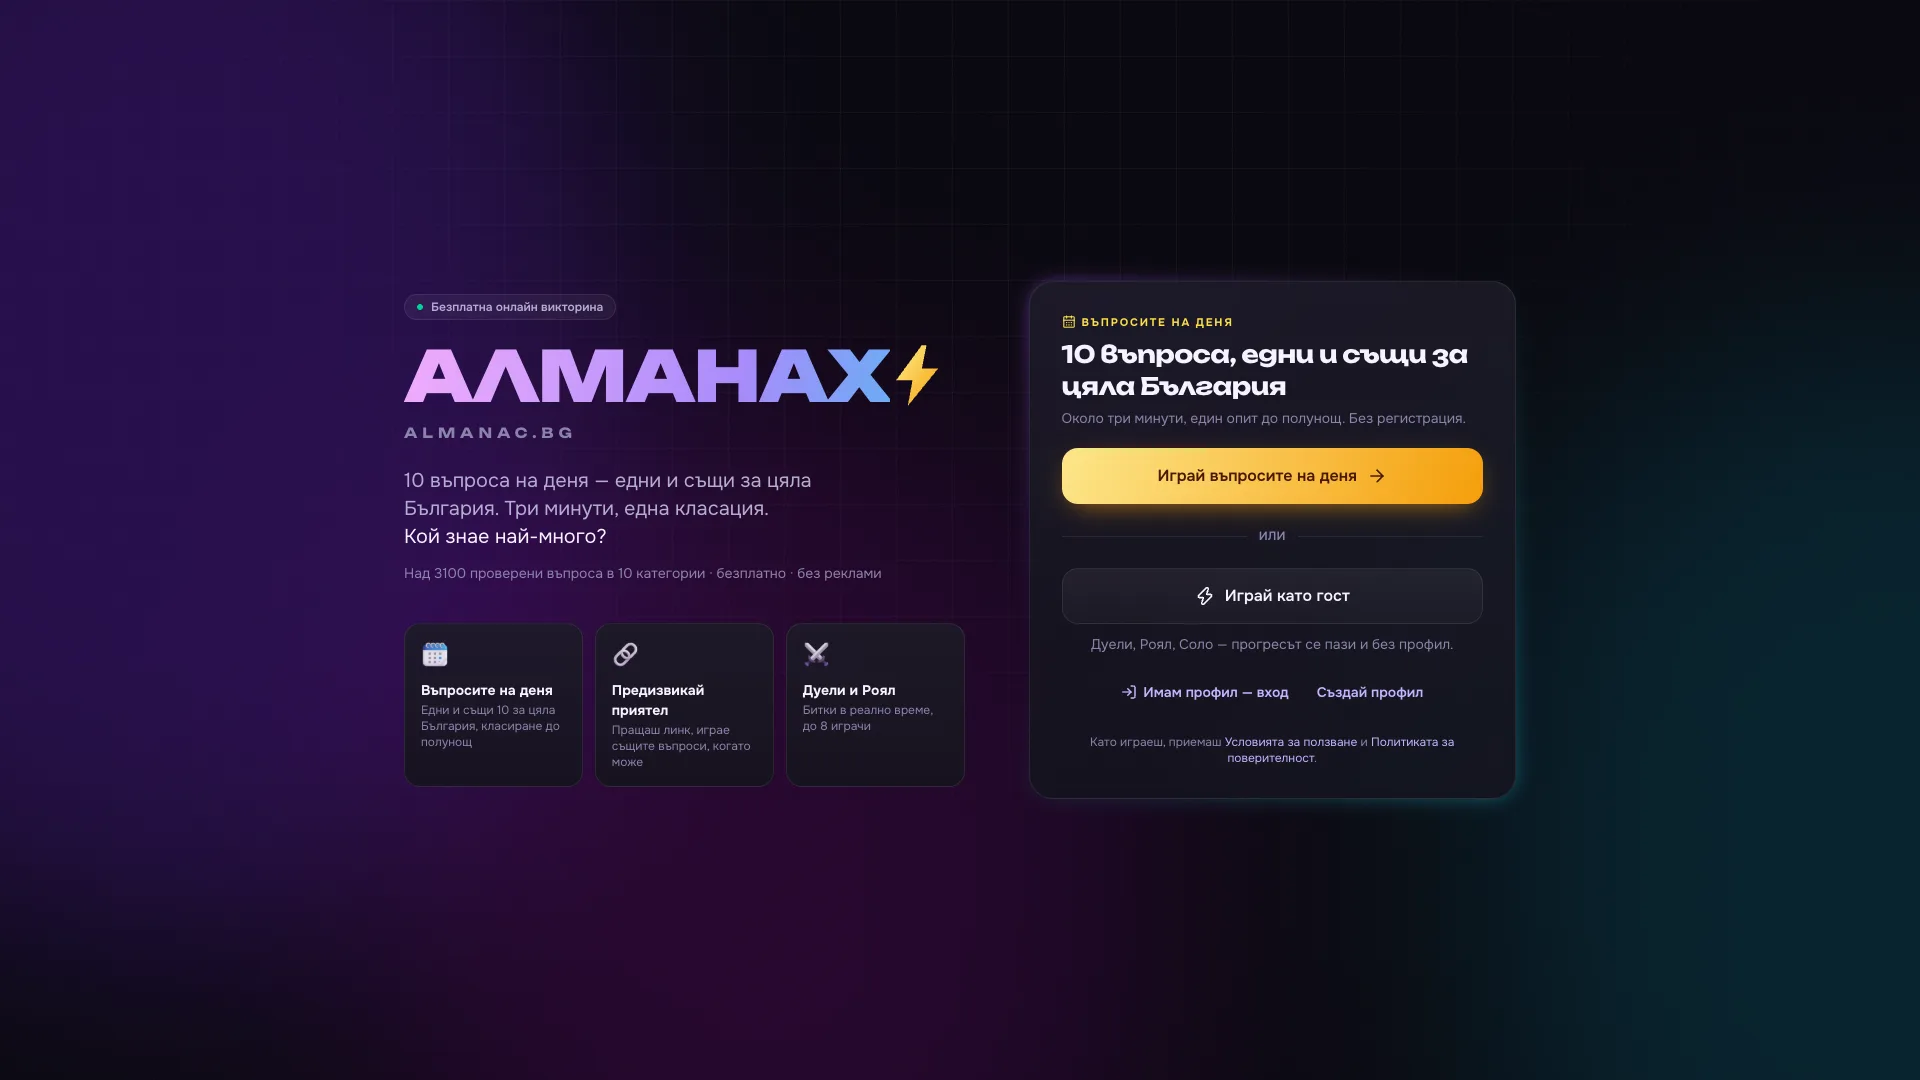
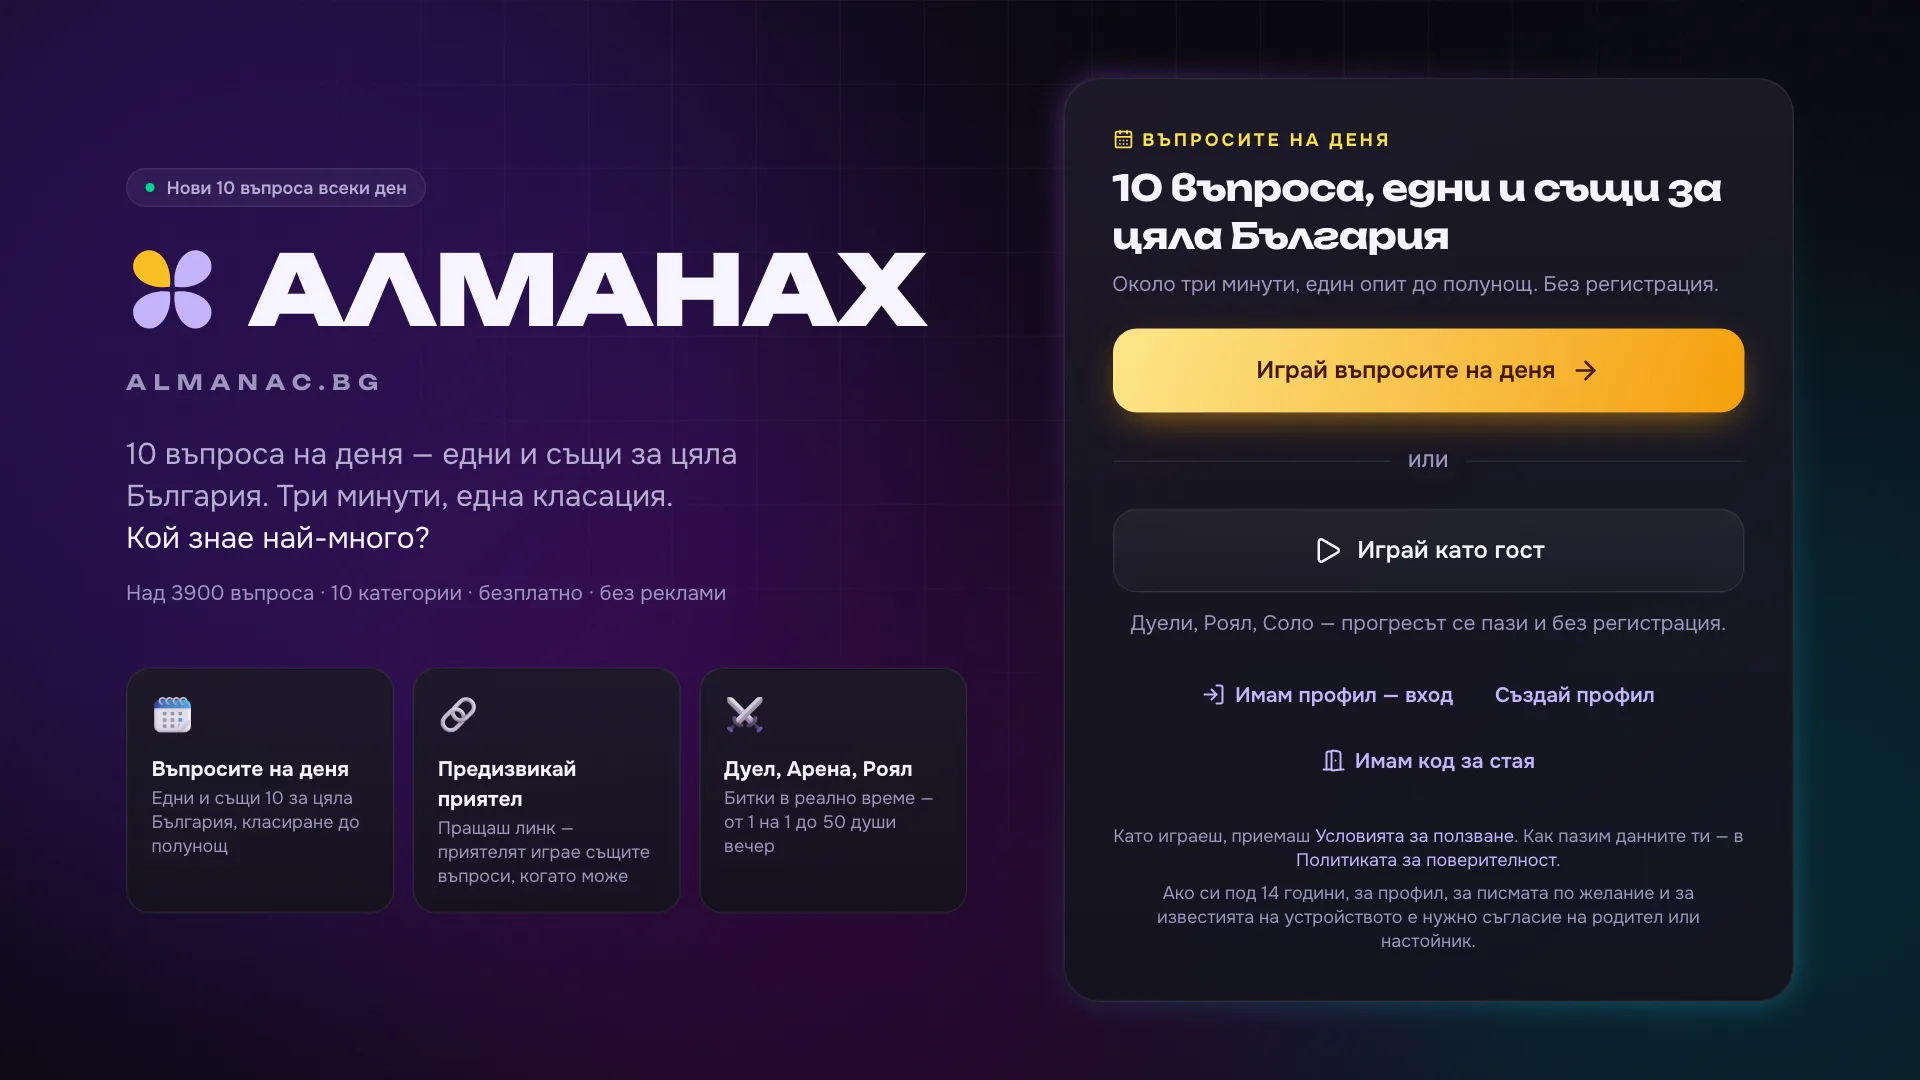
8j.1 (WEB-3, VD-2, VD-3, COPY-5, GH-5): the rosette everywhere, the bolt nowhere
One brand lockup (npm run lockup): the rosette and the name as Unbounded Black outlines,
drawn with harfbuzz from the site's own font, in public/brand-lockup.svg and inlined in the
app's first frame, offline.html and Caddy's restart page (which also gets a light scheme and
no system-ui). „Играй като гост“ gets Play instead of lucide's Zap; the server's start line
and the manifest comment lose the bolt. npm run store-shots retakes the install sheet's four
screenshots from the built app (a guest on the sample bank; the landing on the real one where
checked out), captions from the manifest's labels. The repository description and the org
profile come from .github/about/ through github-setup.sh. test/brand.test.ts: no bolt, and
every inlined lockup equals the drawn one.

Claude-Session: https://claude.ai/code/session_01PjW8peoPbmFMGbX3BtYztw

diff --git a/apps/web/index.html b/apps/web/index.html
@@ -34,19 +34,20 @@
          Bulgarian with its own letter forms). */
       html { background: #07060d; }
       html[data-theme='light'] { background: #f4f3f9; }
+      /* The brand lockup (public/brand-lockup.svg, drawn by scripts/lockup.mjs): the rosette and the name as outlines,
+         the same before any font has loaded. Its colours are the game's (--logo-* in styles.css). */
       .boot {
         min-height: 100dvh;
         display: grid;
         place-content: center;
-        grid-auto-flow: column;
-        gap: 0.15em;
-        font: 900 clamp(2rem, 9vw, 3.5rem) / 1 'Segoe UI', Roboto, Arial, sans-serif;
-        letter-spacing: -0.02em;
-        color: #e9d5ff;
-        text-shadow: 0 0 32px rgb(168 85 247 / 0.55);
+        color: #f5f3ff;
         animation: boot-pulse 1.6s ease-in-out infinite alternate;
       }
-      [data-theme='light'] .boot { color: #6d28d9; text-shadow: none; }
+      .boot .lockup { height: calc(0.95 * clamp(2rem, 9vw, 3.5rem)); width: auto; filter: drop-shadow(0 0 28px rgb(168 85 247 / 0.45)); }
+      [data-theme='light'] .boot { color: #16131f; }
+      [data-theme='light'] .boot .lockup { filter: none; }
+      [data-theme='light'] .boot .petal { fill: #6d28d9; }
+      [data-theme='light'] .boot .gold { fill: #f59e0b; }
       @keyframes boot-pulse { from { opacity: 0.55; } to { opacity: 1; } }
       @media (prefers-reduced-motion: reduce) { .boot { animation: none; } }
       .noscript {
@@ -61,7 +62,7 @@
   <body>
     <!-- Painted instantly while the app's code downloads; React replaces it. Between the markers the server may put
          the page itself, already drawn (see src/lib/painted.ts). -->
-    <div id="root"><!--app--><div class="boot" role="status" aria-label="Зареждане…"><span>%BRAND_NAME%</span><svg aria-hidden="true" viewBox="13 5 38 54" style="height:0.9em;width:auto;align-self:center"><path d="M36 6 14 36h14l-4 22 26-32H36l4-20z" fill="#fbbf24"/></svg></div><!--/app--></div>
+    <div id="root"><!--app--><div class="boot" role="status" aria-label="Зареждане…"><!--lockup--><svg xmlns="http://www.w3.org/2000/svg" class="lockup" role="img" aria-label="АЛМАНАХ" viewBox="0 0 8260 950"><g transform="scale(20.2128) translate(-8.5 -8.5)"><path class="gold" fill="#fbbf24" d="M32 30.2C24.5 24.7 21.5 14.7 26 9.9c3.2-3.4 8.8-3.4 12 0 4.5 4.8 1.5 14.8-6 20.3z" transform="rotate(-45 32 32)"/><path class="petal" fill="#c4b5fd" d="M32 30.2C24.5 24.7 21.5 14.7 26 9.9c3.2-3.4 8.8-3.4 12 0 4.5 4.8 1.5 14.8-6 20.3z" transform="rotate(45 32 32)"/><path class="petal" fill="#c4b5fd" d="M32 30.2C24.5 24.7 21.5 14.7 26 9.9c3.2-3.4 8.8-3.4 12 0 4.5 4.8 1.5 14.8-6 20.3z" transform="rotate(135 32 32)"/><path class="petal" fill="#c4b5fd" d="M32 30.2C24.5 24.7 21.5 14.7 26 9.9c3.2-3.4 8.8-3.4 12 0 4.5 4.8 1.5 14.8-6 20.3z" transform="rotate(225 32 32)"/></g><path fill="currentColor" d="M1488,724L1488,519L1999,519L1999,724L1488,724ZM1920,100L2249,850L1974,850L1715,214L1781,214L1522,850L1247,850L1576,100L1920,100ZM2406,100L3180,100L3180,850L2922,850L2922,212L3038,328L2550,328L2658,244Q2665,299 2668,351Q2670,403 2670,450Q2670,597 2643,689Q2615,781 2556,824Q2497,867 2402,867Q2358,867 2315,858Q2272,848 2237,830L2237,618Q2282,635 2319,635Q2378,635 2403,584Q2428,532 2428,413Q2428,351 2423,274Q2417,197 2406,100ZM4430,100L4430,850L4185,850L4185,197L4232,203L3980,850L3725,850L3473,206L3520,199L3520,850L3275,850L3275,100L3674,100L3898,711L3809,711L4031,100L4430,100ZM4703,724L4703,519L5214,519L5214,724L4703,724ZM5135,100L5464,850L5189,850L4930,214L4996,214L4737,850L4462,850L4791,100L5135,100ZM5496,100L5754,100L5754,850L5496,850L5496,100ZM6074,100L6332,100L6332,850L6074,850L6074,100ZM5642,353L6175,353L6175,581L5642,581L5642,353ZM6605,724L6605,519L7116,519L7116,724L6605,724ZM7037,100L7366,850L7091,850L6832,214L6898,214L6639,850L6364,850L6693,100L7037,100ZM7894,540L7894,381L8274,850L7957,850L7733,553L7863,553L7637,850L7324,850L7707,381L7707,540L7343,100L7666,100L7868,367L7738,367L7936,100L8255,100L7894,540Z"/></svg><!--/lockup--></div><!--/app--></div>
     <!-- Without scripts (switched off, or blocked) the game can't run: said, rather than a splash that never ends. The
          pages drawn on the server (the guides, the legal ones) read without it. -->
     <noscript><p class="noscript">%BRAND_NAME% е игра в реално време и има нужда от JavaScript. Включи го в браузъра и

diff --git a/apps/web/public/offline.html b/apps/web/public/offline.html
@@ -17,8 +17,9 @@
       }
       /* As the device is set (the page can't read the game's own choice offline). No system-ui: Apple's sets Bulgarian
          with its own letter forms. */
-      .logo { display: inline-flex; align-items: center; gap: 9px; font-weight: 900; font-size: 28px; letter-spacing: -0.02em; }
-      /* The rosette (favicon.svg), its colours as in the game (--logo-* in styles.css). */
+      /* The brand lockup (brand-lockup.svg, drawn by scripts/lockup.mjs): the rosette and the name as outlines, so no
+         font has to load; its colours as in the game (--logo-* in styles.css). */
+      .logo .lockup { display: block; margin: 0 auto; height: 27px; width: auto; }
       .logo .petal { fill: #c4b5fd; }
       .logo .gold { fill: #fbbf24; }
       h1 { margin: 24px 0 8px; font-size: 22px; }
@@ -41,7 +42,7 @@
   </head>
   <body>
     <main>
-      <div class="logo"><svg aria-hidden="true" viewBox="8.5 8.5 47 47" width="27" height="27"><path class="gold" d="M32 30.2C24.5 24.7 21.5 14.7 26 9.9c3.2-3.4 8.8-3.4 12 0 4.5 4.8 1.5 14.8-6 20.3z" transform="rotate(-45 32 32)"/><path class="petal" d="M32 30.2C24.5 24.7 21.5 14.7 26 9.9c3.2-3.4 8.8-3.4 12 0 4.5 4.8 1.5 14.8-6 20.3z" transform="rotate(45 32 32)"/><path class="petal" d="M32 30.2C24.5 24.7 21.5 14.7 26 9.9c3.2-3.4 8.8-3.4 12 0 4.5 4.8 1.5 14.8-6 20.3z" transform="rotate(135 32 32)"/><path class="petal" d="M32 30.2C24.5 24.7 21.5 14.7 26 9.9c3.2-3.4 8.8-3.4 12 0 4.5 4.8 1.5 14.8-6 20.3z" transform="rotate(225 32 32)"/></svg>АЛМАНАХ</div>
+      <div class="logo"><!--lockup--><svg xmlns="http://www.w3.org/2000/svg" class="lockup" role="img" aria-label="АЛМАНАХ" viewBox="0 0 8260 950"><g transform="scale(20.2128) translate(-8.5 -8.5)"><path class="gold" fill="#fbbf24" d="M32 30.2C24.5 24.7 21.5 14.7 26 9.9c3.2-3.4 8.8-3.4 12 0 4.5 4.8 1.5 14.8-6 20.3z" transform="rotate(-45 32 32)"/><path class="petal" fill="#c4b5fd" d="M32 30.2C24.5 24.7 21.5 14.7 26 9.9c3.2-3.4 8.8-3.4 12 0 4.5 4.8 1.5 14.8-6 20.3z" transform="rotate(45 32 32)"/><path class="petal" fill="#c4b5fd" d="M32 30.2C24.5 24.7 21.5 14.7 26 9.9c3.2-3.4 8.8-3.4 12 0 4.5 4.8 1.5 14.8-6 20.3z" transform="rotate(135 32 32)"/><path class="petal" fill="#c4b5fd" d="M32 30.2C24.5 24.7 21.5 14.7 26 9.9c3.2-3.4 8.8-3.4 12 0 4.5 4.8 1.5 14.8-6 20.3z" transform="rotate(225 32 32)"/></g><path fill="currentColor" d="M1488,724L1488,519L1999,519L1999,724L1488,724ZM1920,100L2249,850L1974,850L1715,214L1781,214L1522,850L1247,850L1576,100L1920,100ZM2406,100L3180,100L3180,850L2922,850L2922,212L3038,328L2550,328L2658,244Q2665,299 2668,351Q2670,403 2670,450Q2670,597 2643,689Q2615,781 2556,824Q2497,867 2402,867Q2358,867 2315,858Q2272,848 2237,830L2237,618Q2282,635 2319,635Q2378,635 2403,584Q2428,532 2428,413Q2428,351 2423,274Q2417,197 2406,100ZM4430,100L4430,850L4185,850L4185,197L4232,203L3980,850L3725,850L3473,206L3520,199L3520,850L3275,850L3275,100L3674,100L3898,711L3809,711L4031,100L4430,100ZM4703,724L4703,519L5214,519L5214,724L4703,724ZM5135,100L5464,850L5189,850L4930,214L4996,214L4737,850L4462,850L4791,100L5135,100ZM5496,100L5754,100L5754,850L5496,850L5496,100ZM6074,100L6332,100L6332,850L6074,850L6074,100ZM5642,353L6175,353L6175,581L5642,581L5642,353ZM6605,724L6605,519L7116,519L7116,724L6605,724ZM7037,100L7366,850L7091,850L6832,214L6898,214L6639,850L6364,850L6693,100L7037,100ZM7894,540L7894,381L8274,850L7957,850L7733,553L7863,553L7637,850L7324,850L7707,381L7707,540L7343,100L7666,100L7868,367L7738,367L7936,100L8255,100L7894,540Z"/></svg><!--/lockup--></div>
       <h1 data-down="Сървърът не отговаря">Няма връзка</h1>
       <p data-down="Връщаме се след малко: страницата ще опита отново сама.">Играта иска интернет. Щом връзката се върне, страницата ще се отвори сама.</p>
       <a href="">Опитай отново</a>

diff --git a/apps/web/src/components/landing/Entry.tsx b/apps/web/src/components/landing/Entry.tsx
@@ -1,6 +1,6 @@
 import { fmt } from '@quiz/client';
 import { type ChallengePreview, type DailyPreview, MODES, ROOM_CODE_DIGITS } from '@quiz/shared';
-import { ArrowRight, CalendarDays, DoorOpen, LogIn, RotateCcw, Swords, TriangleAlert, Zap } from 'lucide-react';
+import { ArrowRight, CalendarDays, DoorOpen, LogIn, Play, RotateCcw, Swords, TriangleAlert } from 'lucide-react';
 import { type ReactNode, useEffect, useRef, useState } from 'react';
 import { Link, useNavigate } from 'react-router';
 import type { LoadFailure } from '../../lib/load';
@@ -56,7 +56,7 @@ export function GuestPlay({
   return (
     <div>
       <Button size="lg" variant={primary ? 'primary' : 'secondary'} className="w-full" loading={busy} onClick={onPlay}>
-        <Zap aria-hidden className="size-5" /> {label}
+        <Play aria-hidden className="size-5" /> {label}
       </Button>
       <p className="mt-2.5 text-center text-sm text-fg-3">
         Без регистрация. Нивото и серията се пазят — запазваш профила с име и парола, когато решиш.
@@ -106,7 +106,7 @@ export function NewcomerStart({
       )}
       <Or>или</Or>
       <Button size="lg" variant="secondary" className="w-full" disabled={busy} onClick={onGuest}>
-        <Zap aria-hidden className="size-5" /> Играй като гост
+        <Play aria-hidden className="size-5" /> Играй като гост
       </Button>
       <p className="mt-2.5 text-center text-sm text-fg-3">Дуели, Роял, Соло — прогресът се пази и без регистрация.</p>
       <div className="mt-4 flex flex-wrap justify-center gap-x-1 text-sm">
@@ -312,7 +312,7 @@ export function ChallengeLanding({
           Няма такова предизвикателство — линкът може да е непълен или вече изтрит. Можеш да играеш и без него.
         </p>
         <Button size="lg" className="mt-6 w-full" loading={busy} onClick={onPlay}>
-          <Zap aria-hidden className="size-5" /> Играй като гост
+          <Play aria-hidden className="size-5" /> Играй като гост
         </Button>
         {failure}
         {signIn}
@@ -367,7 +367,7 @@ export function ChallengeLanding({
             Предизвикателството изтече и вече не може да се играе. Влез в играта — дуелите и въпросите на деня те чакат.
           </p>
           <Button size="lg" className="mt-5 w-full" loading={busy} onClick={onPlay}>
-            <Zap aria-hidden className="size-5" /> Играй като гост
+            <Play aria-hidden className="size-5" /> Играй като гост
           </Button>
         </>
       ) : (

diff --git a/apps/server/test/brand.test.ts b/apps/server/test/brand.test.ts
@@ -1,0 +1,39 @@
+// The mark (the 31 October review, WEB-3 = VD-2 = COPY-5): the rosette wherever a player or an installer looks, never
+// the retired bolt; the lockup drawn once (apps/web/scripts/lockup.mjs) and the same in every page that inlines it.
+import assert from 'node:assert/strict';
+import fs from 'node:fs';
+import path from 'node:path';
+import { test } from 'node:test';
+import { BRAND } from '@quiz/shared';
+
+const root = path.resolve(import.meta.dirname, '../../..');
+const read = (file: string) => fs.readFileSync(path.join(root, file), 'utf8');
+const INLINED = ['apps/web/index.html', 'apps/web/public/offline.html', 'deploy/Caddyfile'];
+
+test('no page a player or an installer sees carries the retired bolt', () => {
+  for (const file of [
+    ...INLINED,
+    'apps/web/public/cf-error.html',
+    'apps/web/vite.config.ts',
+    'apps/web/src/components/landing/Entry.tsx',
+    'apps/server/src/index.ts',
+    '.github/about/org-profile.md',
+    '.github/about/description.txt',
+  ]) {
+    const text = read(file);
+    assert.ok(!text.includes('M36 6 14 36'), `${file}: the bolt's path`);
+    assert.ok(!text.includes('⚡'), `${file}: ⚡`);
+    assert.ok(!/\bZap\b/.test(text), `${file}: lucide's Zap`);
+  }
+});
+
+test('the brand lockup is drawn once, with the name, and inlined the same everywhere', () => {
+  const lockup = read('apps/web/public/brand-lockup.svg').trim();
+  assert.ok(lockup.includes(`aria-label="${BRAND.name}"`), 'the name it draws is the brand’s');
+  for (const file of INLINED)
+    assert.equal(
+      /<!--lockup-->([\s\S]*?)<!--\/lockup-->/.exec(read(file))?.[1],
+      lockup,
+      `${file}: run npm run lockup -w @quiz/web`,
+    );
+});

diff --git a/apps/web/vite.config.ts b/apps/web/vite.config.ts
@@ -80,7 +80,7 @@ const manifest = JSON.stringify({
       sizes: '1080x1920',
       type: 'image/webp',
       form_factor: 'narrow',
-      label: 'Соло, дуели, Роял и стаи с приятели',
+      label: 'Соло, дуели, Арена, Роял и стаи с приятели',
     },
     {
       src: '/screenshots/landing-wide.webp',
@@ -93,7 +93,7 @@ const manifest = JSON.stringify({
   icons: [
     { src: '/icon-192.png', sizes: '192x192', type: 'image/png', purpose: 'any' },
     { src: '/icon-512.png', sizes: '512x512', type: 'image/png', purpose: 'any' },
-    // Launchers crop these to their own shape; the bolt sits inside the safe zone.
+    // Launchers crop these to their own shape; the rosette sits inside the safe zone.
     { src: '/icon-maskable-512.png', sizes: '512x512', type: 'image/png', purpose: 'maskable' },
   ],
 });

diff --git a/apps/server/src/index.ts b/apps/server/src/index.ts
@@ -599,7 +599,7 @@ const stopMaintenance = startMaintenance();
 watchEventLoop();
 
 server.listen(config.port, () => {
-  console.log(`⚡ ${BRAND.name} server on http://localhost:${config.port}`);
+  console.log(`${BRAND.mark} ${BRAND.name} server on http://localhost:${config.port}`);
 });
 
 /**

diff --git a/docs/maintainers.md b/docs/maintainers.md
@@ -26,6 +26,17 @@ routing.
 споделяне: `og.jpg` на сайта и `.github/social-preview.png` (качи я отново в GitHub). В интерфейса знакът е `Rosette` в
 `NavBar.tsx`, с цветовете `--logo-petal` и `--logo-gold` за двете теми.
 
+Там, където шрифт още не е зареден или не може да се зареди — първият кадър на приложението (`index.html`), страницата
+без връзка (`offline.html`) и тази на Caddy, докато приложението се рестартира (`deploy/Caddyfile`), — знакът и името
+са един рисуван файл: `npm run lockup -w @quiz/web` чертае `public/brand-lockup.svg` (розетката и името от `brand.ts`
+като контури от Unbounded) и го слага между маркерите `<!--lockup-->` в трите. `test/brand.test.ts` в сървъра следи
+да са еднакви и никъде да няма старата мълния.
+
+Снимките в листа за инсталиране (`screenshots` в манифеста, `vite.config.ts`) прави `npm run store-shots -w
+@quiz/web` след `npm run build`: играе изграденото приложение като гост върху примерната банка (началната страница —
+върху истинската, ако е тук, за да казва колко въпроса има сайтът) и слага надписите от манифеста. Пусни го след
+`lockup` или `icons` и след промяна на началната страница, лобито или въпроса.
+
 ## Пълният преглед
 
 `/a-to-z` в Claude Code пуска пълния експертен преглед „от А до Я“: продуктът и всичко, на което стои (организацията в

diff --git a/.github/about/org-profile.md b/.github/about/org-profile.md
@@ -1,0 +1,10 @@
+# АЛМАНАХ
+
+**Куиз в реално време** на български: въпросите на деня за цяла България, класирани дуели, Арена за 3 до 5
+играчи, Отбори 2 на 2, Роял за 8 с отпадане и вечерен Роял за до 50, частни и класни стаи, дуели с приятели и
+линкове с предизвикателство. Играй на **[almanac.bg](https://almanac.bg)**.
+
+Играта е с отворен код: **[almanac-bg/almanac](https://github.com/almanac-bg/almanac)** (React, Node.js,
+Socket.IO, SQLite · AGPL-3.0). Сигнали за грешки, идеи и pull request-и са добре дошли — виж
+[как да помогнеш](https://github.com/almanac-bg/almanac/blob/main/CONTRIBUTING.md). Въпроси за играта се
+предлагат направо в нея.
